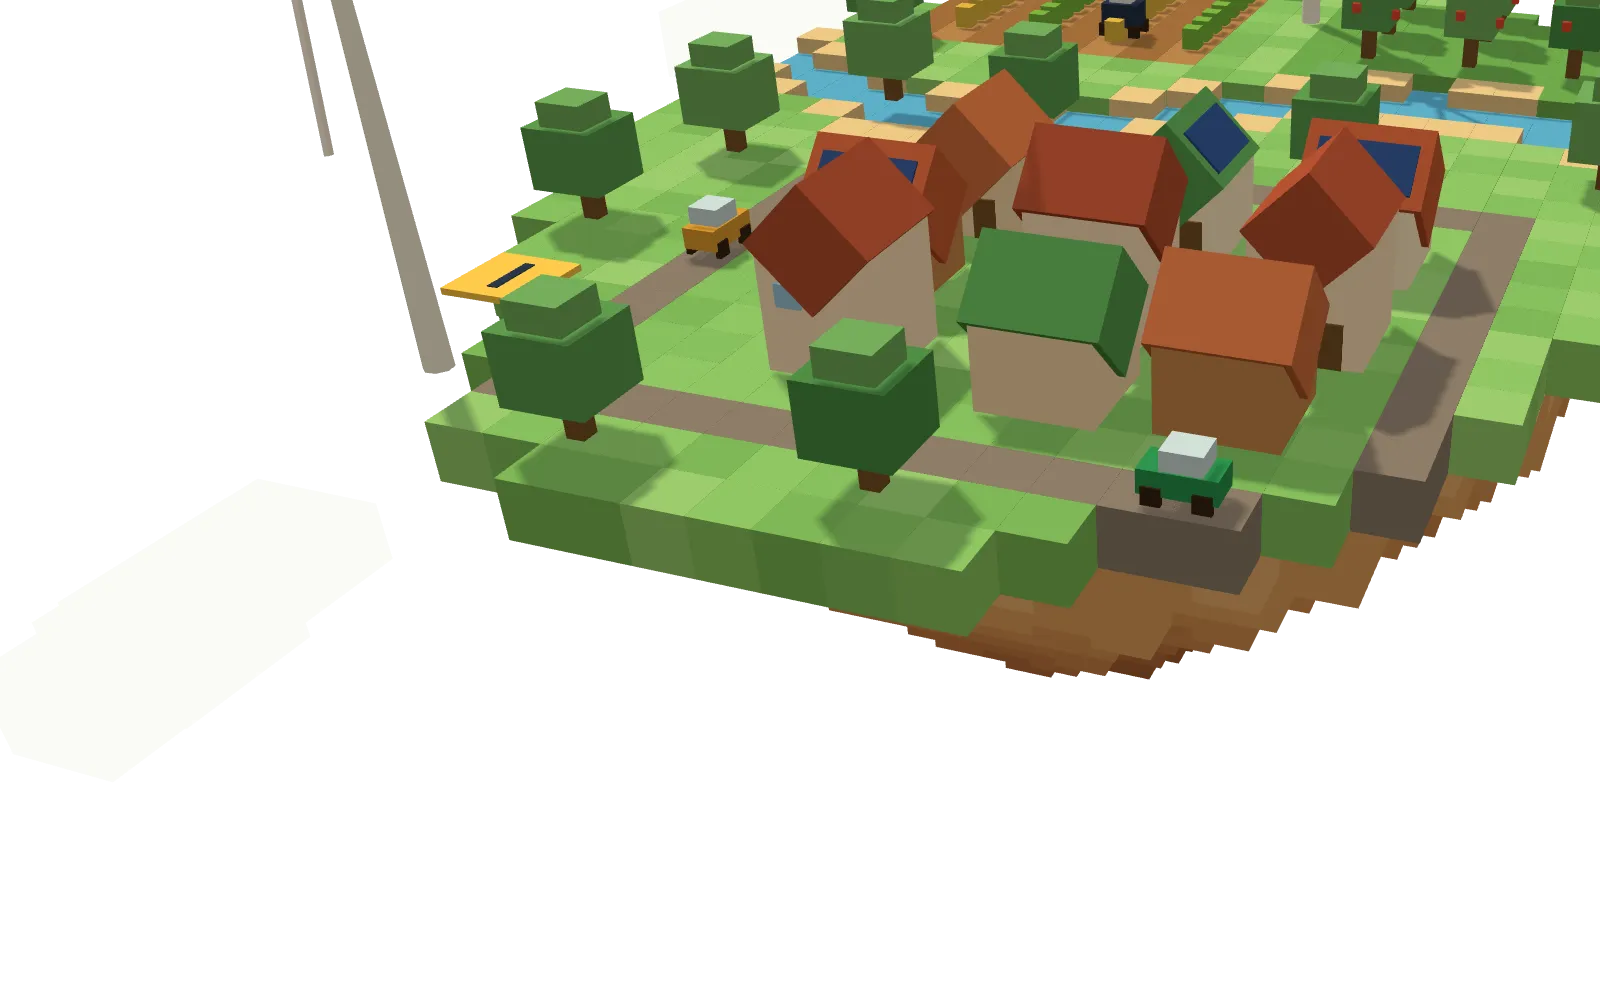
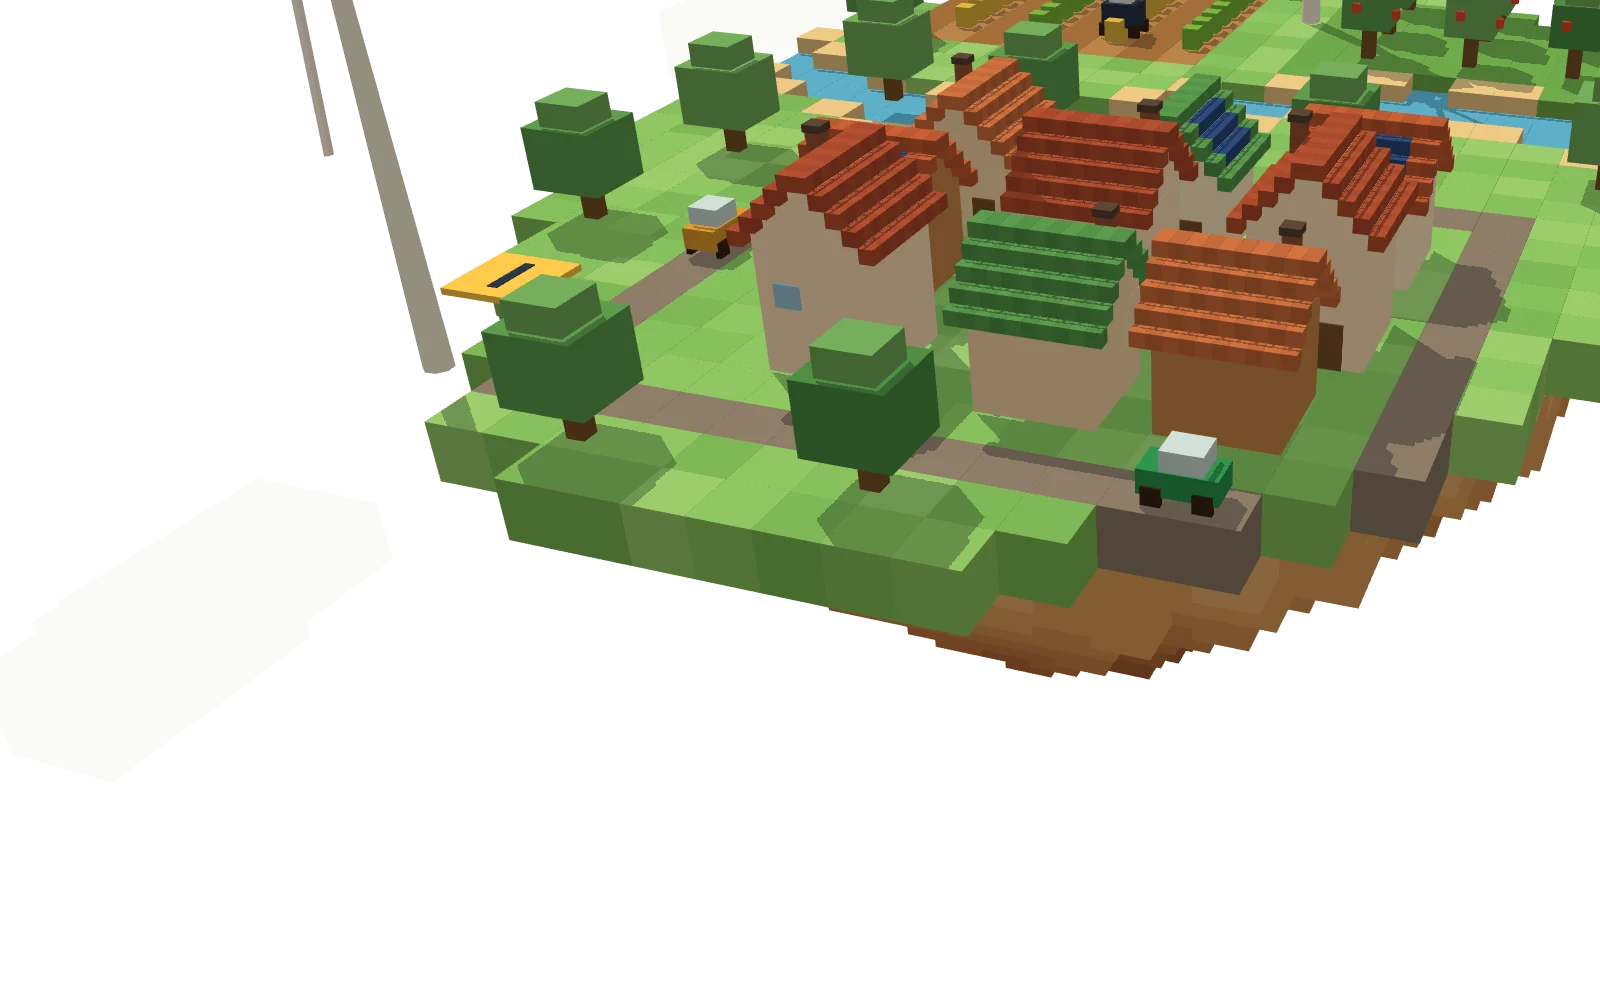
Start page: still pictures of the newer island, shown while the live island loads
They were made from the old island, so the first picture on loading still showed the old roofs.
tools/stills.mjs renders them from js/home/island.js itself, with the start page's own framing.

Claude-Session: https://claude.ai/code/session_01Ecde5Lvgabpd1qnHSP6bP6

diff --git a/games/ecotown/game/tests/visual/stills.html b/games/ecotown/game/tests/visual/stills.html
@@ -1,0 +1,21 @@
+<!doctype html>
+<html lang="en-GB">
+<head>
+<meta charset="utf-8">
+<title>Start page stills</title>
+<!-- A tool page, not part of the camp: renders one still picture of the start page's island (js/home/island.js) for img/home/<shot>-<wide|tall>.webp.
+     ?shot=hero|town|drone|robots|roads|film|power&tall=1. The page is the size of the picture; tools/stills.mjs takes the pictures. The shift is the start page's own (shiftFor in js/hub.js). -->
+<style>html, body { margin: 0; height: 100%; background: transparent; } canvas { display: block; width: 100%; height: 100%; }</style>
+</head>
+<body>
+<canvas></canvas>
+<script type="module">
+import { createIsland } from '../../js/home/island.js';
+const q = new URLSearchParams(location.search), shot = q.get('shot') || 'hero', tall = q.get('tall') === '1';
+const f = tall ? { x: 0, y: shot === 'hero' ? 0.07 : -0.19, z: shot === 'hero' ? 1.3 : 1.1 } : { x: shot === 'hero' ? 0.22 : 0.24, y: 0, z: 1 };
+const island = createIsland(document.querySelector('canvas'));
+island.setShift(f.x, f.y, f.z);
+requestAnimationFrame(() => requestAnimationFrame(() => { island.still(shot); window.stillReady = true; }));
+</script>
+</body>
+</html>

diff --git a/CLAUDE.md b/CLAUDE.md
@@ -48,7 +48,7 @@ Read first:
 - **The one round of rework is finished for all six levels (24 to 25 Nov 2026).** Five agents were stopped part-way when the owner's Fable usage ran out, and five new agents on Opus finished the same round from the saved work (owner: "stop them now and start five new agents on opus"). Each level was published again to its own link, and the whole game was published again with all six reworked levels; Start was tested locally and opens Land with no errors. Each agent's answers to the four questions are in its level's `NOTES.md` (Homes: `concepts/trial/NOTES.md`) and were given to the owner. No second round without the owner's word. Still open with the owner: whether Land's word button should change the result (the Land agent says the kit's own rule and Astra's accepted feedback ask for it); whether Food may mention "electric growing lights" before the electricity source is decided.
 - **The new Eco Town game goes on the live site (owner, 25 Nov 2026).** It replaces the old Eco Town part on `ecotown-future.deltaops.workers.dev`: the start page's Eco Town card opens `eco-town/concepts/game/index.html`, built by `games/ecotown/build.mjs` from `docs/redesign/concepts/`. The owner's decisions: keep the live start page with its latest updates; archive the old Eco Town game (it stays in `play.html?part=town`, unlinked, because the five other parts run in `play.html`); keep the old join codes (the new game needs one like every other page); no OpenAI words for this build, so the design agents' labelled placeholder words go live as they are. Details in `docs/RELEASES.md`.
 - **Start page for the new game (owner, 25 Nov 2026):** parts 2 to 6 (drones, robots, self-driving cars, film studio, power control room) show "Coming soon" on the start page and cannot be opened (`soon: true` in `games/ecotown/game/js/series.js`); the welcome card opens a new welcome film (`welcome.html`, made by `games/ecotown/voice/welcome-film.py`); the ribbon shows pictures of the six new levels; the new game has an "AI Lab start page" button. Details in `docs/RELEASES.md`.
-- **The start page's 3D island is the newer one (owner, 25 Nov 2026: "I prefer the newer island").** `games/ecotown/game/js/home/island.js` has the stepped roofs, hard-edged shadows and solar tiles of 18 Nov 2026. The owner first asked to keep the island unchanged and the older one was put back, then chose the newer one the same day.
+- **The start page's 3D island is the newer one (owner, 25 Nov 2026: "I prefer the newer island").** `games/ecotown/game/js/home/island.js` has the stepped roofs, hard-edged shadows and solar tiles of 18 Nov 2026. The owner first asked to keep the island unchanged and the older one was put back, then chose the newer one the same day. After any change to `island.js`, render its still pictures again with `games/ecotown/game/tools/stills.mjs`, because the start page shows them while the live island loads.
 - **Do not carry over "Florence could be wrong" or how sure she is** (the owner found it confusing), in Eco Town too. This overrides the Eco Town lesson described above once the redesign is built.
 
 ## Rules for this repository

diff --git a/docs/RELEASES.md b/docs/RELEASES.md
@@ -4,7 +4,7 @@ Each build carries a version, the commit it was built from and the date. They sh
 
 ## The start page shows the newer 3D island (25 November 2026, later)
 
-The owner prefers the newer island: stepped roofs like the main game's homes, hard-edged shadows and solar tiles (made on 18 November). `js/home/island.js` is that version again.
+The owner prefers the newer island: stepped roofs like the main game's homes, hard-edged shadows and solar tiles (made on 18 November). `js/home/island.js` is that version again. The fourteen still pictures shown while the live island loads (`img/home/<shot>-wide.webp` and `-tall.webp`) were rendered again from the newer island by `game/tools/stills.mjs` (page `tests/visual/stills.html`); before that, the first picture on loading still showed the old roofs.
 
 ## The start page's 3D island put back as it was (25 November 2026)
 
